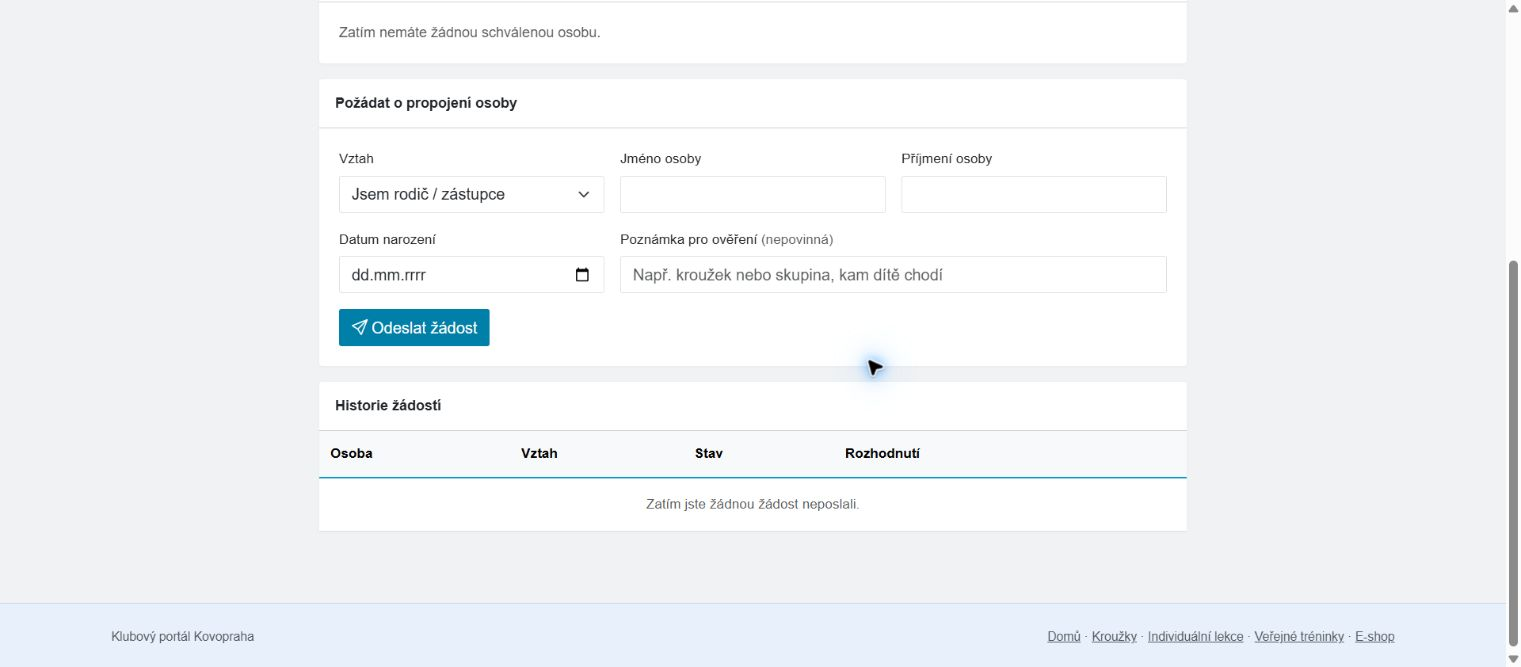
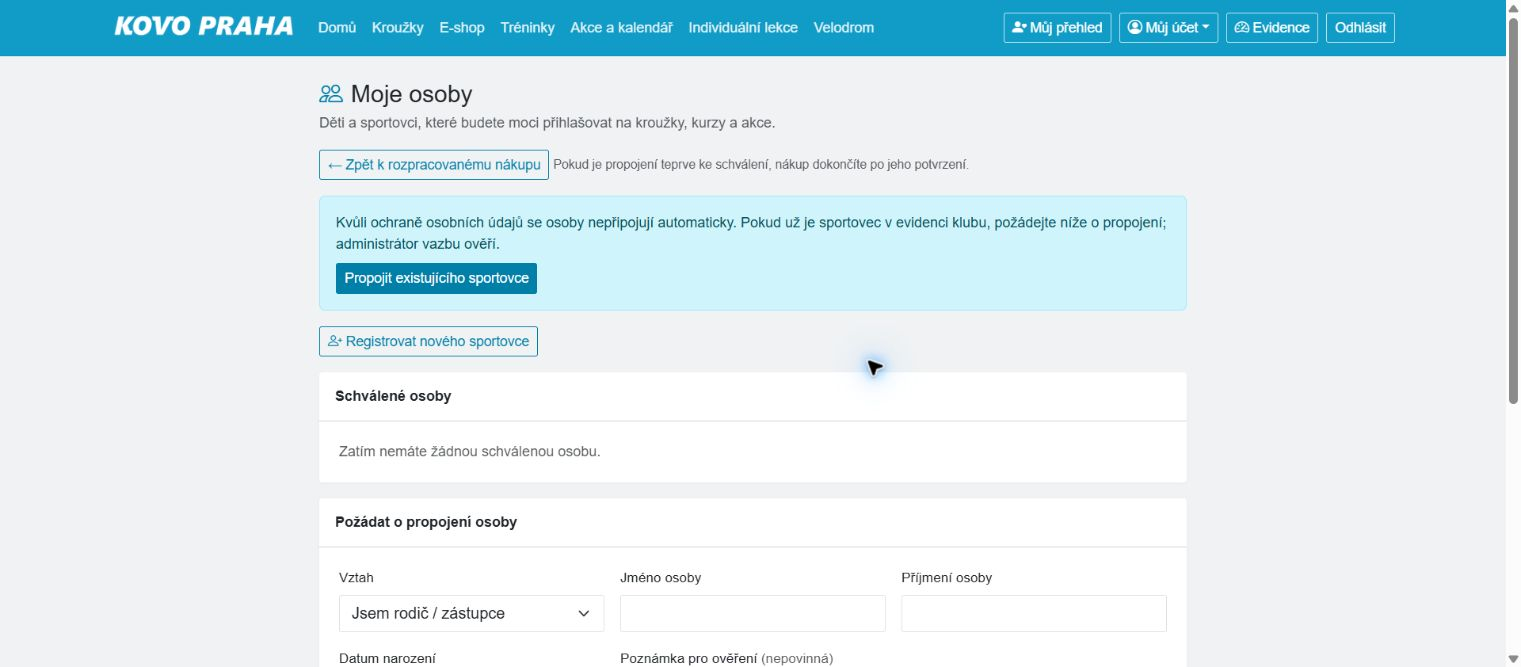
docs: record family course deployment and browser proof

diff --git a/docs/verification/family-course-20261023/RESULTS.md b/docs/verification/family-course-20261023/RESULTS.md
@@ -49,6 +49,7 @@ Opravy nemění schema ani historické doménové záznamy.
 | B1: úhrada a aktivace | Hospodář zaznamenal simulovanou bankovní úhradu 125 Kč s důvodem. Moje kroužky zobrazily Zaplaceno, Účast aktivována a novou aktivní soupisku. Viz `local-paid-course.png`. |
 | B1: odvolání | Registrář odvolal vazbu86. Moje kroužky skryly účasti a rodinné položky. Přímé otevření `nahrady.php?person_id=91` odmítnuto: K profilu nemáte oprávnění. Viz `local-revoked-course.png`. |
 | B1: plátce po odvolání | Vlastní zaplacená objednávka32 zůstala v detailu dostupná, bez přístupu k aktuálním sportovním údajům. |
+| B1: objednávka jiného plátce | I po znovuschválení rodinné vazby přímý detail objednávky31 odmítnut hláškou Objednávka nebyla nalezena. Oprávnění k dítěti nedává přístup k celé objednávce jiného zákazníka. |
 | B1: opětovné schválení | Vazba86 obnovena běžným UI s důvodem; historie schválení/odvolání zůstala zachována. |
 | B1: pracovní hranice | Hospodář nemůže otevřít administraci objednávek pro zákaznickou péči; platbu potvrdil ve své finanční agendě. |
 
@@ -65,7 +66,28 @@ Opravy nemění schema ani historické doménové záznamy.
   vazby, atomické schválení, revalidaci při checkoutu, kapacitu a platební
   aktivaci, vzájemné vyloučení omezené sportovní identity s rodinnou/pracovní,
   zneplatnění session a obnovu hesel přes oprávněného rodiče.
-- Linux CI, MariaDB a chráněný release: doplnit po dokončení běhu.
+- Obnova hesel a návrat k nákupu: dalších **8 testů / 78 assertions PASS**.
+- Nativní prepared statements nad B1 MariaDB, nový společný dotaz s `FOR UPDATE`:
+  schválená osoba91 povolena, cizí osoba92 odmítnuta; transakce pouze četla a byla vrácena.
+- Read-only kontrola po UI: objednávka32 paid/processing, položka32 má osobu91
+  a nabídku11, jediná aktivní účast11 zdrojovaná položkou32. Vazba86 má audit
+  approve → revoke → reactivate. Žádná přímá SQL oprava dat.
+- PR #179, hlava `43168b1161b4ac6c832a10e2fa6b24c46489cb29`:
+  Testy **40002328789**, CodeQL **40002325568** SUCCESS.
+- Sloučený commit `c6e3328be0567a1ea4b242f18eb6d66c4e1e9202`:
+  Testy **40002524668**, CodeQL **40002525408** SUCCESS.
+- Linux: **1656 testů / 33008 assertions PASS**. MariaDB 10.3 a 11.4 PASS.
+- Chráněný release **40002714298 SUCCESS**, dokončen **20:28:10 SELČ** pro uvedený
+  přesný commit, `uat_schvaleno=false`, `importovat_krouzky=false`.
+  Před přepnutím ověřená produkční záloha, opakované testy 1656/33008 PASS,
+  ochrana původních platebních symbolů `unchanged=true`; nové migrace tento balík nemá.
+  Přímé HTTPS spojení CI runneru timeoutovalo na síti; standardní serverový
+  fallback vrátil HTTP200. Nejde o selhání aplikace ani o náhradu browser přejímky.
+- Živý přihlášený browser **20:27:46** načetl SHA `c6e3328b…`, soukromé úložiště PASS
+  a následně Moje kroužky bez cizích profilů. Viz `production-release.png`.
+  Celková brána UAT zůstává BLOKOVÁNO provozními předpoklady; nebyla obejita.
+- B1 hub B15 a B18 aktualizován, export z **20:18:28** stažen a zkontrolován:
+  `acceptance-hub-export.md`, 10 PARTIAL / 40 celkem, A01–A10 dosud netestovány.
 
 ## Přesně odložené části
 

diff --git a/docs/HANDOFF_CURRENT.md b/docs/HANDOFF_CURRENT.md
@@ -1,10 +1,14 @@
 # Aktuální předání vývoje na další stanici
 
-**23. 10. 2026 — rodinné účty a nákup kurzů.**
+**23. 10. 2026 20:28 — rodinné účty a nákup kurzů, PR #179 nasazen.**
 [Nový protokol](verification/family-course-20261023/RESULTS.md) obsahuje tři opravy,
 browser B1 objednávku32 / osobu91 / vazbu86, čtecí produkční kontrolu a odložený
 sportovní login. Cílené testy 229/2596 + 8/78 PASS; plná Windows sada má pouze
-známé selhání POSIX scanneru. Čeká Linux CI, MariaDB a chráněný release.
+známé selhání POSIX scanneru. Linux **1656/33008**, MariaDB 10.3/11.4 a CodeQL PASS.
+Produkční release `c6e3328be0567a1ea4b242f18eb6d66c4e1e9202`, chráněný deploy
+**40002714298 SUCCESS**, dokončen 20:28:10 SELČ. Browser SHA a private storage PASS;
+celková UAT brána zůstává BLOKOVÁNO. Moje kroužky načteny bez cizích údajů.
+Další browser krok vyžaduje existující izolovaný sportovní účet; nevytvářet heslo za uživatele.
 Nenahrazovat tím lidské přijetí, nevytvářet syntetické zápisy v produkci.
 
 **23. 10. 2026 19:49 — produkční prohlídka osob a tréninků po obnoveném přihlášení.**
